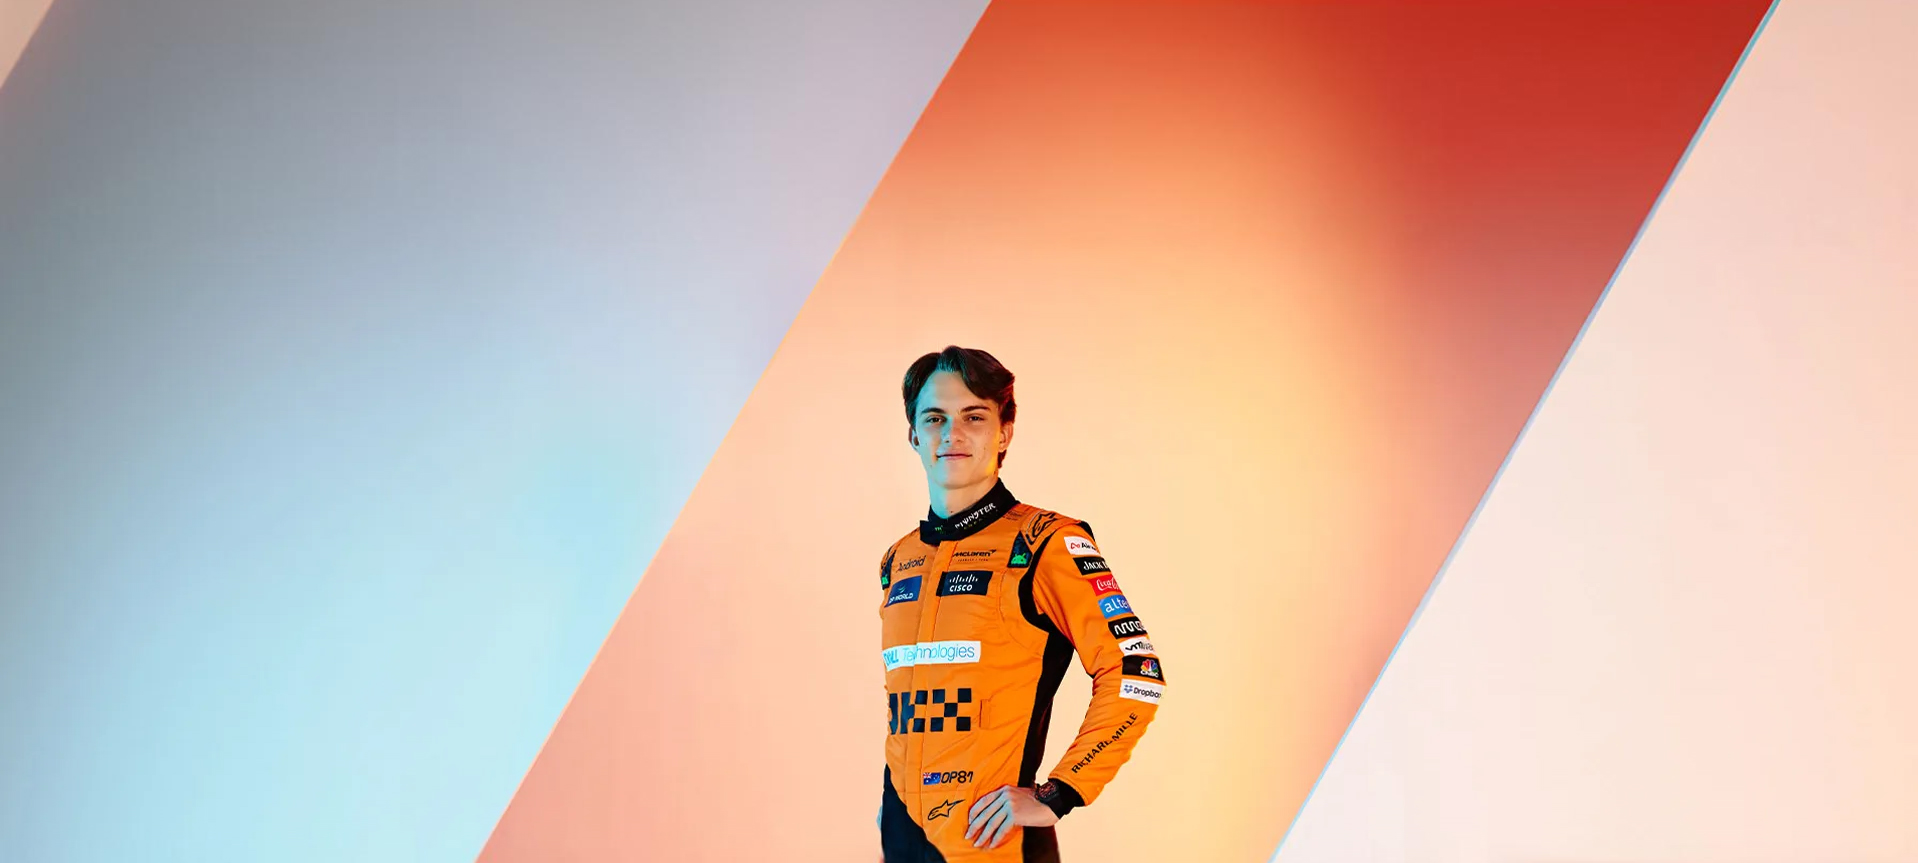
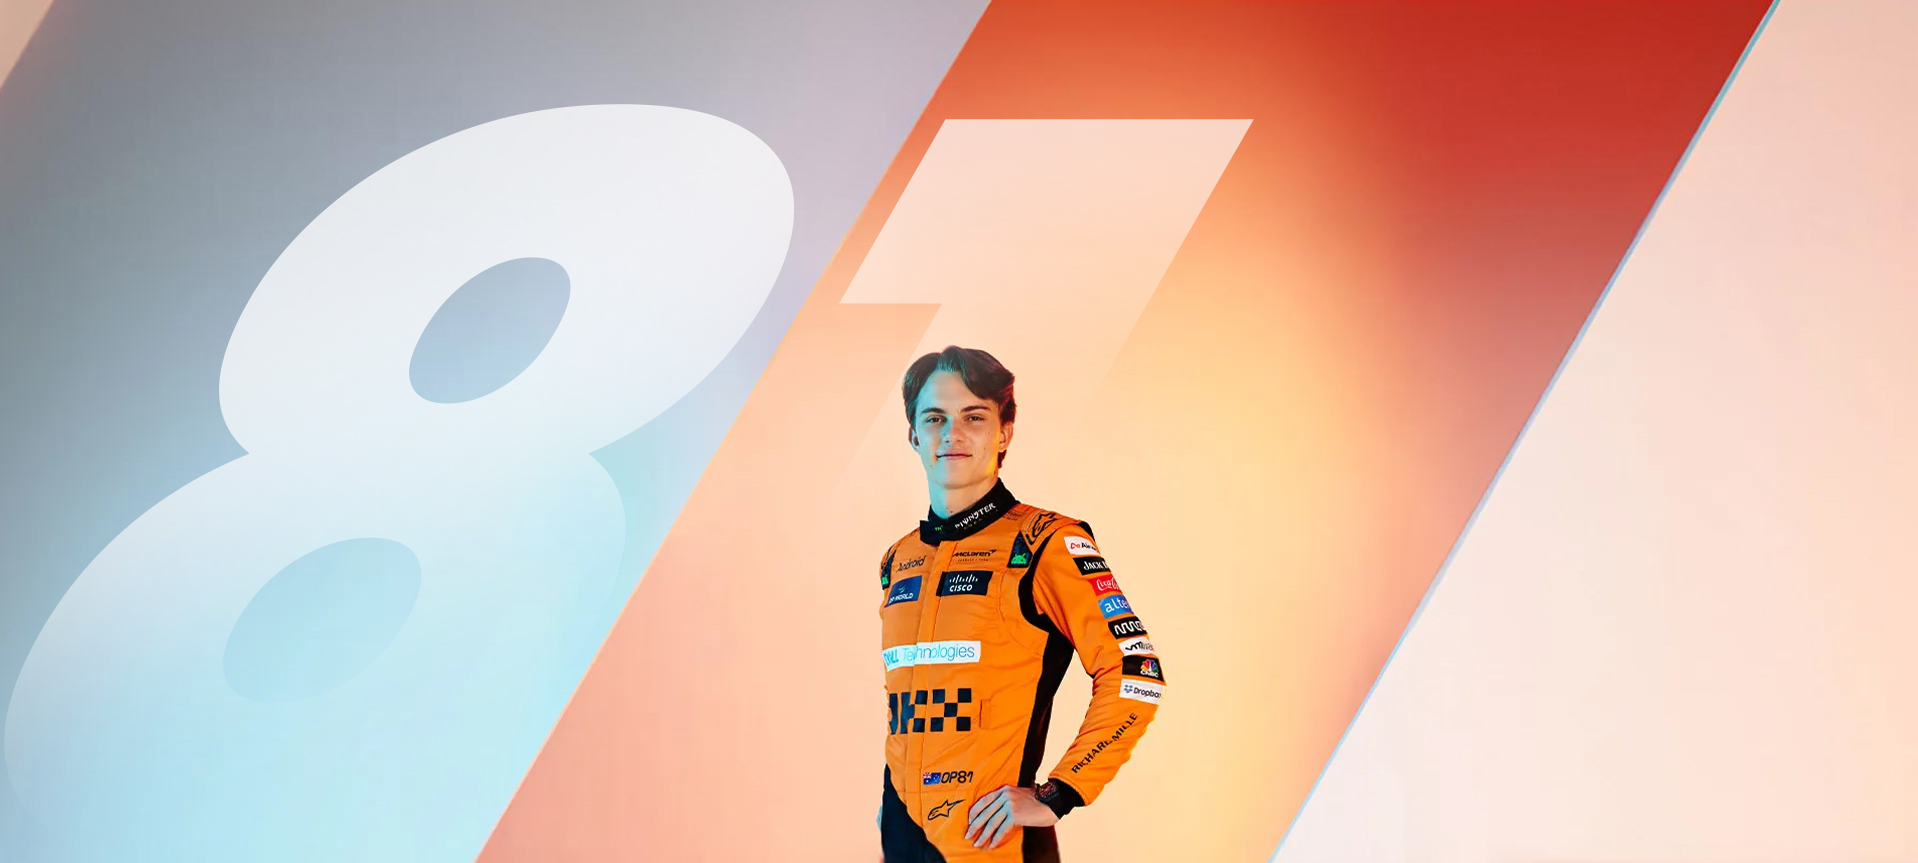
driver fix02

Changed region(s): [[0.0, 0.1205, 0.646, 0.8134]]

diff --git a/js/index.js b/js/index.js
@@ -40,6 +40,104 @@ document.addEventListener('DOMContentLoaded', function() {
     diffDay();
     setInterval(diffDay, 1000);
 
+    /* driver section03 */
+    /*
+        알고리즘
+        1. slide toggle 클릭
+        2. index번호의 섹션을 fiter blur 10px 즉시 
+           즉시 slide toggle animaition-state-ment = running
+            toggle width가 100% 를 500ms동안 진행
+        3. 500ms 이후 -> foreach로 selected class해체, 다음 색션에 클래스 selected 추가
+    */
+    // const visualSlide = () => {
+    //     const driverToggleBtn = document.querySelectorAll('.slide_toggle');
+    //     const driverCon = document.querySelectorAll('.driver_con');
+    //     const driverSection = document.querySelector('.section_03');
+    
+    //     driverToggleBtn.forEach((item, index) => {
+    //         item.addEventListener('click', (e) => {
+    //             e.preventDefault();
+    
+    //             // 애니메이션을 실행 상태로 설정
+    //             item.style.animationPlayState = 'running';
+    
+    //             // 애니메이션 종료 시점 이벤트 핸들러 등록
+    //             item.addEventListener('animationend', () => {
+    //                 // 모든 클래스 초기화
+    //                 driverCon.forEach((content) => {
+    //                     content.classList.remove('selected');
+    //                 });
+    
+    //                 driverToggleBtn.forEach((content) => {
+    //                     content.classList.remove('selected');
+    //                 });
+    
+    //                 driverSection.classList.remove('piastri');
+    
+    //                 // 선택 상태와 섹션 배경을 토글
+    //                 if (index === 0) {
+    //                     driverCon[1].classList.add('selected');
+    //                     driverToggleBtn[1].classList.add('selected');
+    //                     driverSection.classList.add('piastri');
+    //                 } else {
+    //                     driverCon[0].classList.add('selected');
+    //                     driverToggleBtn[0].classList.add('selected');
+    //                 }
+    
+    //                 // 애니메이션 상태를 "paused"로 설정하여 다음 클릭에 영향을 주지 않도록 함
+    //                 item.style.animationPlayState = 'paused';
+    //             }, { once: true }); // 클릭마다 이벤트 핸들러가 한 번만 실행되도록 설정
+    //         });
+    //     });
+    // };
+    
+    // visualSlide();
+
+    const visualSlide = () => {
+        const driverToggleBtn = document.querySelectorAll('.slide_toggle');
+        const driverCon = document.querySelectorAll('.driver_con');
+        const driverSection = document.querySelector('.section_03');
+    
+        driverToggleBtn.forEach((item, index) => {
+            item.addEventListener('click', (e) => {
+                e.preventDefault();
+    
+                // 애니메이션을 실행 상태로 설정
+                item.style.animationPlayState = 'running';
+    
+                // 애니메이션 종료 시점 이벤트 핸들러 등록
+                // 모든 클래스 초기화
+
+                setTimeout(() => {
+                    driverCon.forEach((content) => {
+                        content.classList.remove('selected');
+                    });
+    
+                    driverToggleBtn.forEach((content) => {
+                        content.classList.remove('selected');
+                    });
+    
+                    driverSection.classList.remove('piastri');
+    
+                    // 선택 상태와 섹션 배경을 토글
+                    if (index === 0) {
+                        driverCon[1].classList.add('selected');
+                        driverToggleBtn[1].classList.add('selected');
+                        driverSection.classList.add('piastri');
+                    } else {
+                        driverCon[0].classList.add('selected');
+                        driverToggleBtn[0].classList.add('selected');
+                    }
+    
+                    // 애니메이션 상태를 "paused"로 설정하여 다음 클릭에 영향을 주지 않도록 함
+                    item.style.animationPlayState = 'paused';
+                }, 600);
+            });
+        });
+    };
+    
+    visualSlide();
+
     const tabBtn = document.querySelectorAll('.btn.btn_tab');
     const tabContent = document.querySelectorAll('.machine_desc');
     tabBtn.forEach((item, index) => {

diff --git a/css/main.css b/css/main.css
@@ -75,22 +75,39 @@
 
 
 /* driver section03  */
-#driver.sections.section_03 { position: relative; background: url(../img/bg_lando-cover-2024.jpg) no-repeat left bottom; overflow: hidden;}
-#driver.sections.section_03 > .slide_toggle { position: absolute; right: 0; top: 0; width: 53px; height: 100%; background: var(--color-point); text-wrap: nowrap; cursor: pointer; transition: all .3s ease-in-out; box-shadow: 0 0 20px 0 var(--color-k-085); border-radius: 10px 0 0 10px; }
+#driver.sections.section_03 { position: relative; background: url(../img/bg_lando-cover-2024.jpg) no-repeat left bottom; overflow: hidden; }
+#driver.sections.section_03.piastri { background: url(../img/bg_oscar-cover-2024.jpg) no-repeat left bottom;}
+#driver.sections.section_03 > .slide_toggle { display: none; position: absolute; right: 0; top: 0; width: 53px; height: 100%; background: var(--color-point); text-wrap: nowrap; cursor: pointer; transition: all .3s ease-in-out; box-shadow: 0 0 20px 0 var(--color-k-085); border-radius: 10px 0 0 10px; animation: driverSlide 1000ms ease; animation-play-state: paused; z-index: 2; }
+#driver.sections.section_03 > .slide_toggle.selected { display: block; }
 #driver.sections.section_03 > .slide_toggle .arrow {position: absolute; top: 50%; left: -30px; width: 30px; height: 60px; transform: translateY(-50%); background: var(--color-point); text-align: center; border-radius: 10px 0 0 10px; box-shadow: -10px 0 20px -10px var(--color-k-085); }
 #driver.sections.section_03 > .slide_toggle .arrow::before { position: absolute; content: ''; width: 10px; height: 10px; right: 0; top: -10px; background-image: radial-gradient(circle at 0% 0%, transparent 9.9px, var(--color-point) 10px);}
 #driver.sections.section_03 > .slide_toggle .arrow::after { position: absolute; content: ''; width: 10px; height: 10px; right: 0; bottom: -10px; background-image: radial-gradient(circle at 0% 100%, transparent 9.9px, var(--color-point) 10px); }
 #driver.sections.section_03 > .slide_toggle .arrow > i { font-size: 25px; line-height: 60px; }
-#driver.sections.section_03 > .slide_toggle > h3 { position: absolute; right: -117px; top: 345px; transform: rotate(90deg); }
+#driver.sections.section_03 > .slide_toggle > h3 { position: absolute; left: -117px; top: 345px; transform: rotate(90deg); }
+#driver.sections.section_03 > .slide_toggle > h3.norris { left: -76px; }
 #driver.sections.section_03 > .width_con {}
-#driver.sections.section_03 > .width_con ul.v_con {}
+#driver.sections.section_03 > .width_con > ul.v_con { display: none; }
+#driver.sections.section_03 > .width_con > ul.v_con.selected { display: block; }
 #driver.sections.section_03 > .width_con ul.v_con > li.cells { vertical-align: middle; }
 #driver.sections.section_03 > .width_con ul.v_con > li.cells .title_con {}
 #driver.sections.section_03 > .width_con ul.v_con > li.cells .box { position: relative; float: right; width: 66%; }
 #driver.sections.section_03 > .width_con ul.v_con > li.cells .box::after { content: ''; position: absolute; right: 39px; bottom: 62px; width: 130px; height: 100px; background: url(../img/noris_logo.png) no-repeat; background-size: cover; }
+#driver.sections.section_03 > .width_con ul.v_con > li.cells .box.piastri::after { right: 39px; bottom: 78px; width: 125px; height: 47px; background: url(../img/oscar_logo.png) no-repeat; background-size: cover; }
 #driver.sections.section_03 > .width_con ul.v_con > li.cells .box .box_title > h3 {}
 #driver.sections.section_03 > .width_con ul.v_con > li.cells .box ul.v_con > li.cells {  }
 #driver.sections.section_03 > .width_con ul.v_con > li.cells .box ul.v_con > li.cells:first-child > h4 { color: var(--color-w-065); }
+
+@keyframes driverSlide {
+	0% {
+		width: 53px;
+	}
+	50% {
+		width: 100%;
+	}
+	100% {
+		width: 53px;
+	}
+}
 
 
 /* MCL38 section04 */

diff --git a/index.html b/index.html
@@ -145,14 +145,20 @@
             <!-- driver -->
             <div id="driver" class="sections section_03 wait_scroll">
                 <div class="show_trigger"></div>
-                <div class="slide_toggle">
+                <div class="slide_toggle selected">
                     <div class="arrow">
                         <i class="fa-regular fa-chevron-left"></i>
                     </div>
                     <h3>OSCAR JACK PIASTRI</h3>
                 </div>
+                <div class="slide_toggle">
+                    <div class="arrow">
+                        <i class="fa-regular fa-chevron-left"></i>
+                    </div>
+                    <h3 class="norris">LANDO NORRIS</h3>
+                </div>
                 <div class="width_con">
-                    <ul class="v_con two_con">
+                    <ul class="v_con two_con driver_con selected">
                         <li class="cells">
                             <div class="title_con black">
                                 <h3>Introduce</h3>
@@ -187,6 +193,46 @@
                                         <h4>21</h4>
                                         <h4>2</h4>
                                         <h4>7</h4>
+                                    </li>
+                                </ul>
+                            </div>
+                        </li>
+                    </ul>
+                    <ul class="v_con two_con driver_con">
+                        <li class="cells">
+                            <div class="title_con black">
+                                <h3>Introduce</h3>
+                                <h2>Mclaren<br />Formula 1<br />Team</h2>
+                                <h4>After our first taste of Formula 1 victory at the <br />1968 Belgian Grand Prix, McLaren has gone on<br/>to secure 185 grand prix wins in total and 20<br />World Championships.
+                                </h4>
+                                <h5>We are united by bravery, ingenuity and the thrill of the chase.</h5>
+                            </div>
+                        </li><!--
+                     --><li class="cells">
+                            <div class="box piastri">
+                                <div class="box_title">
+                                    <h3>OSCAR PIASTRI</h3>
+                                </div>
+                                <ul class="v_con two_con">
+                                    <li class="cells">
+                                        <h4>HOME TOWN</h4>
+                                        <h4>D.O.B.</h4>
+                                        <h4>F1 DEBUT</h4>
+                                        <h4>DRIVER</h4>
+                                        <h4>WINS</h4>
+                                        <h4>PODIUMS</h4>
+                                        <h4>POLES</h4>
+                                        <h4>FASTEST LAPS</h4>
+                                    </li><!--
+                                 --><li class="cells">
+                                        <h4>Melbourne / AU</h4>
+                                        <h4>04 JUN. 2001</h4>
+                                        <h4>Bahrain / 2023</h4>
+                                        <h4>NO. #81</h4>
+                                        <h4>1</h4>
+                                        <h4>7</h4>
+                                        <h4>2</h4>
+                                        <h4>3</h4>
                                     </li>
                                 </ul>
                             </div>
